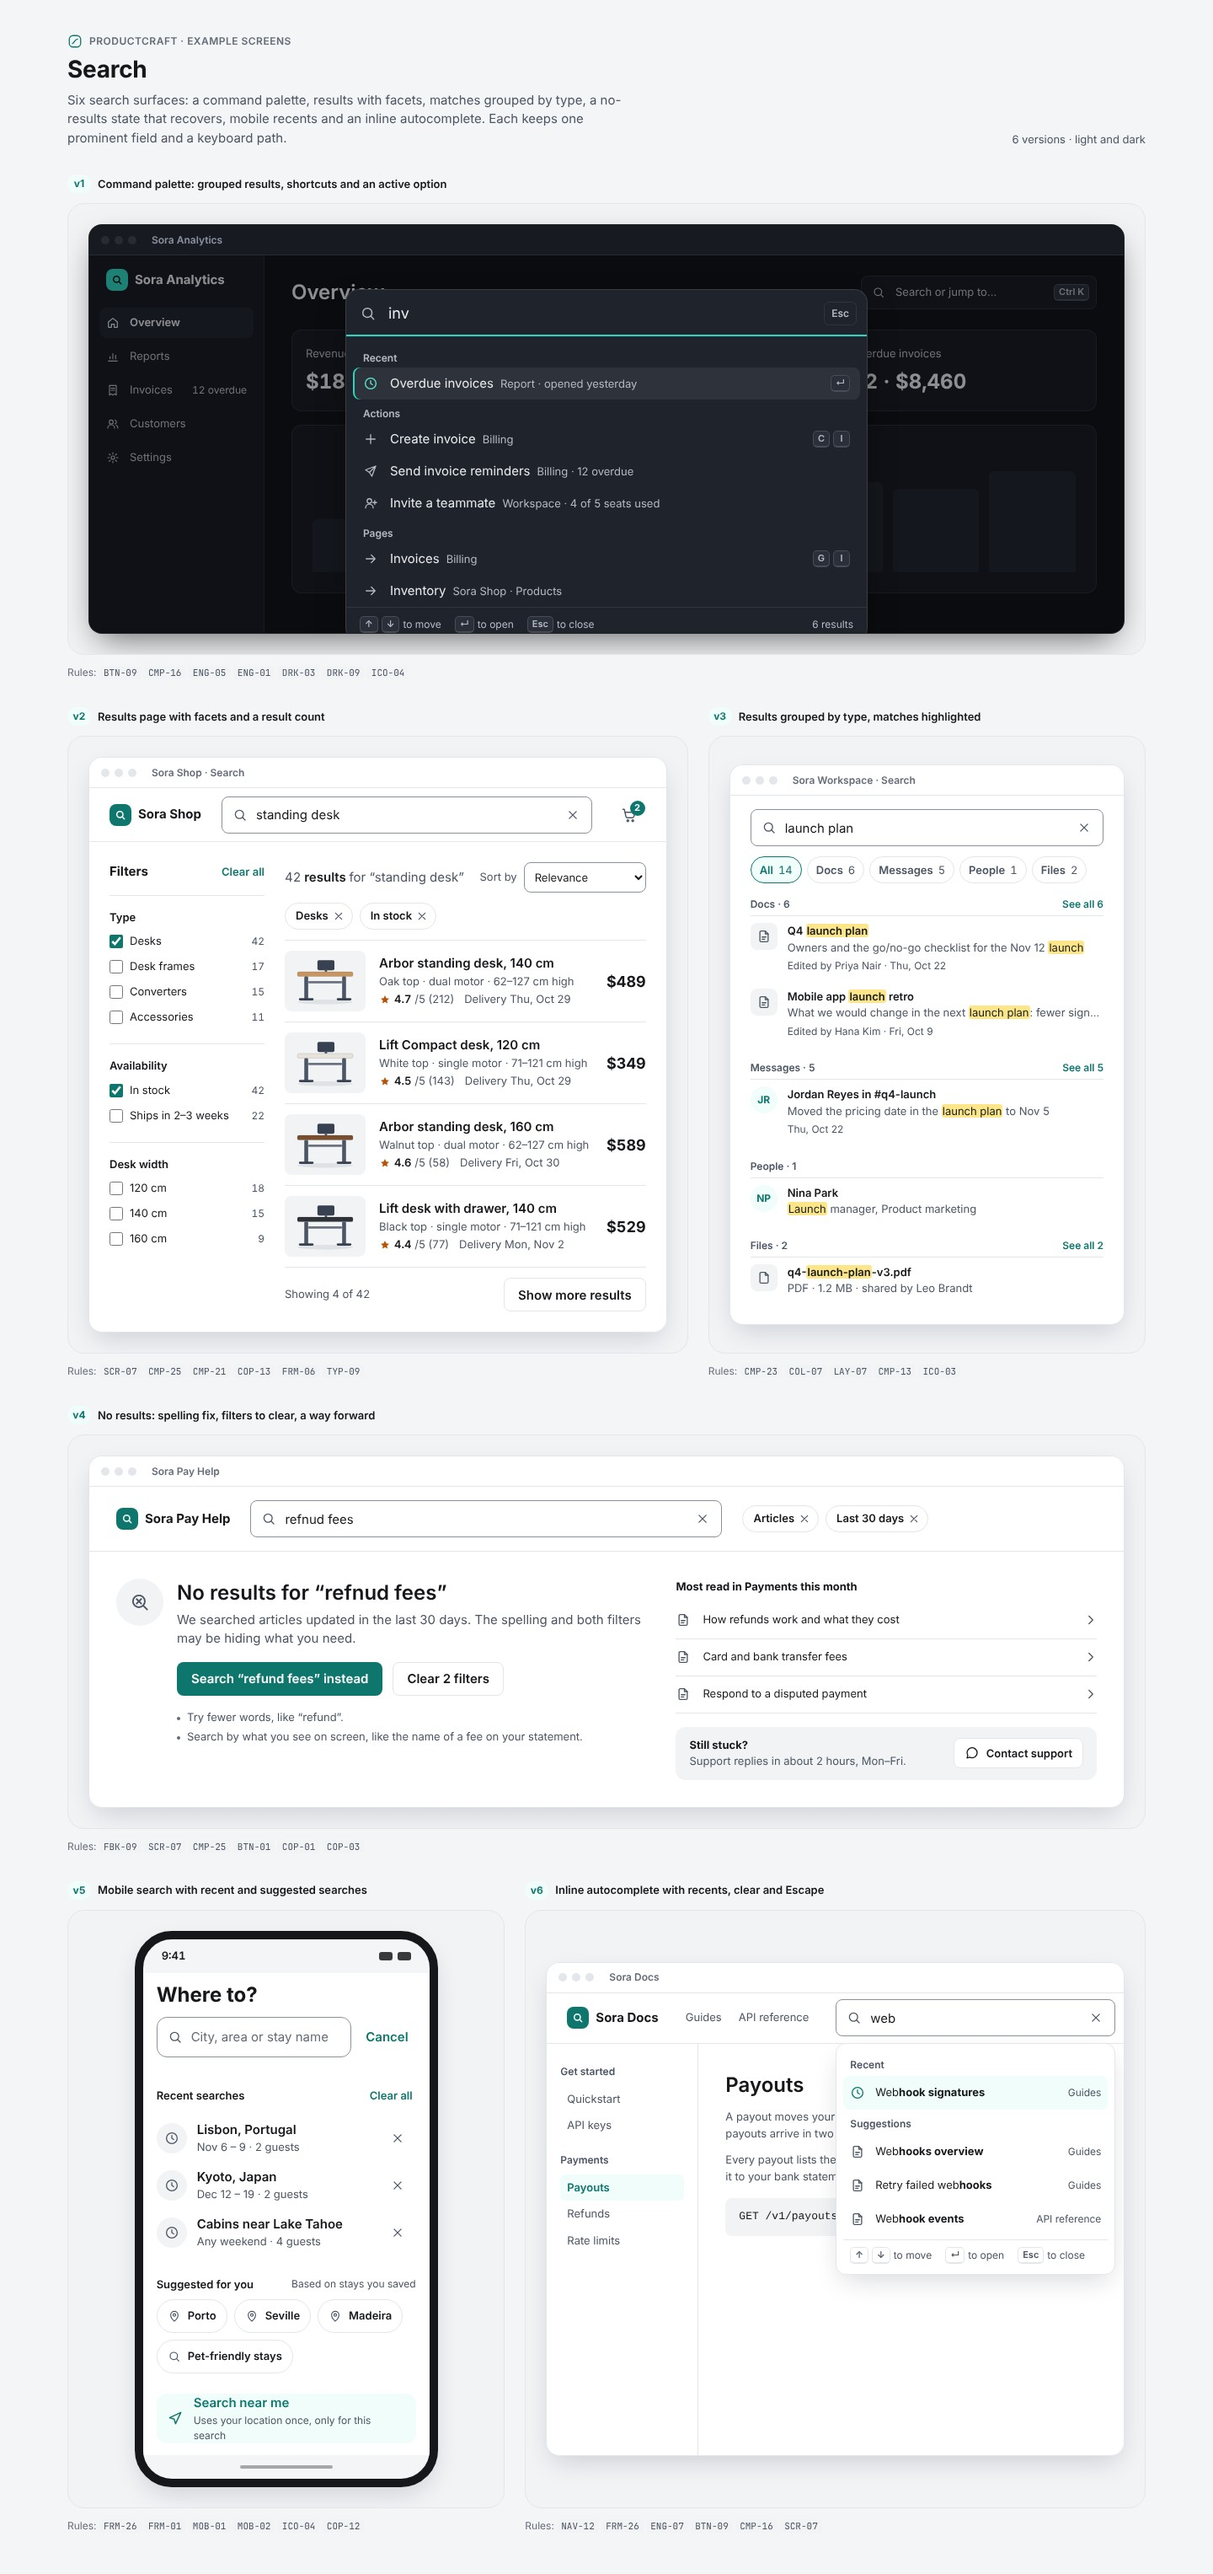
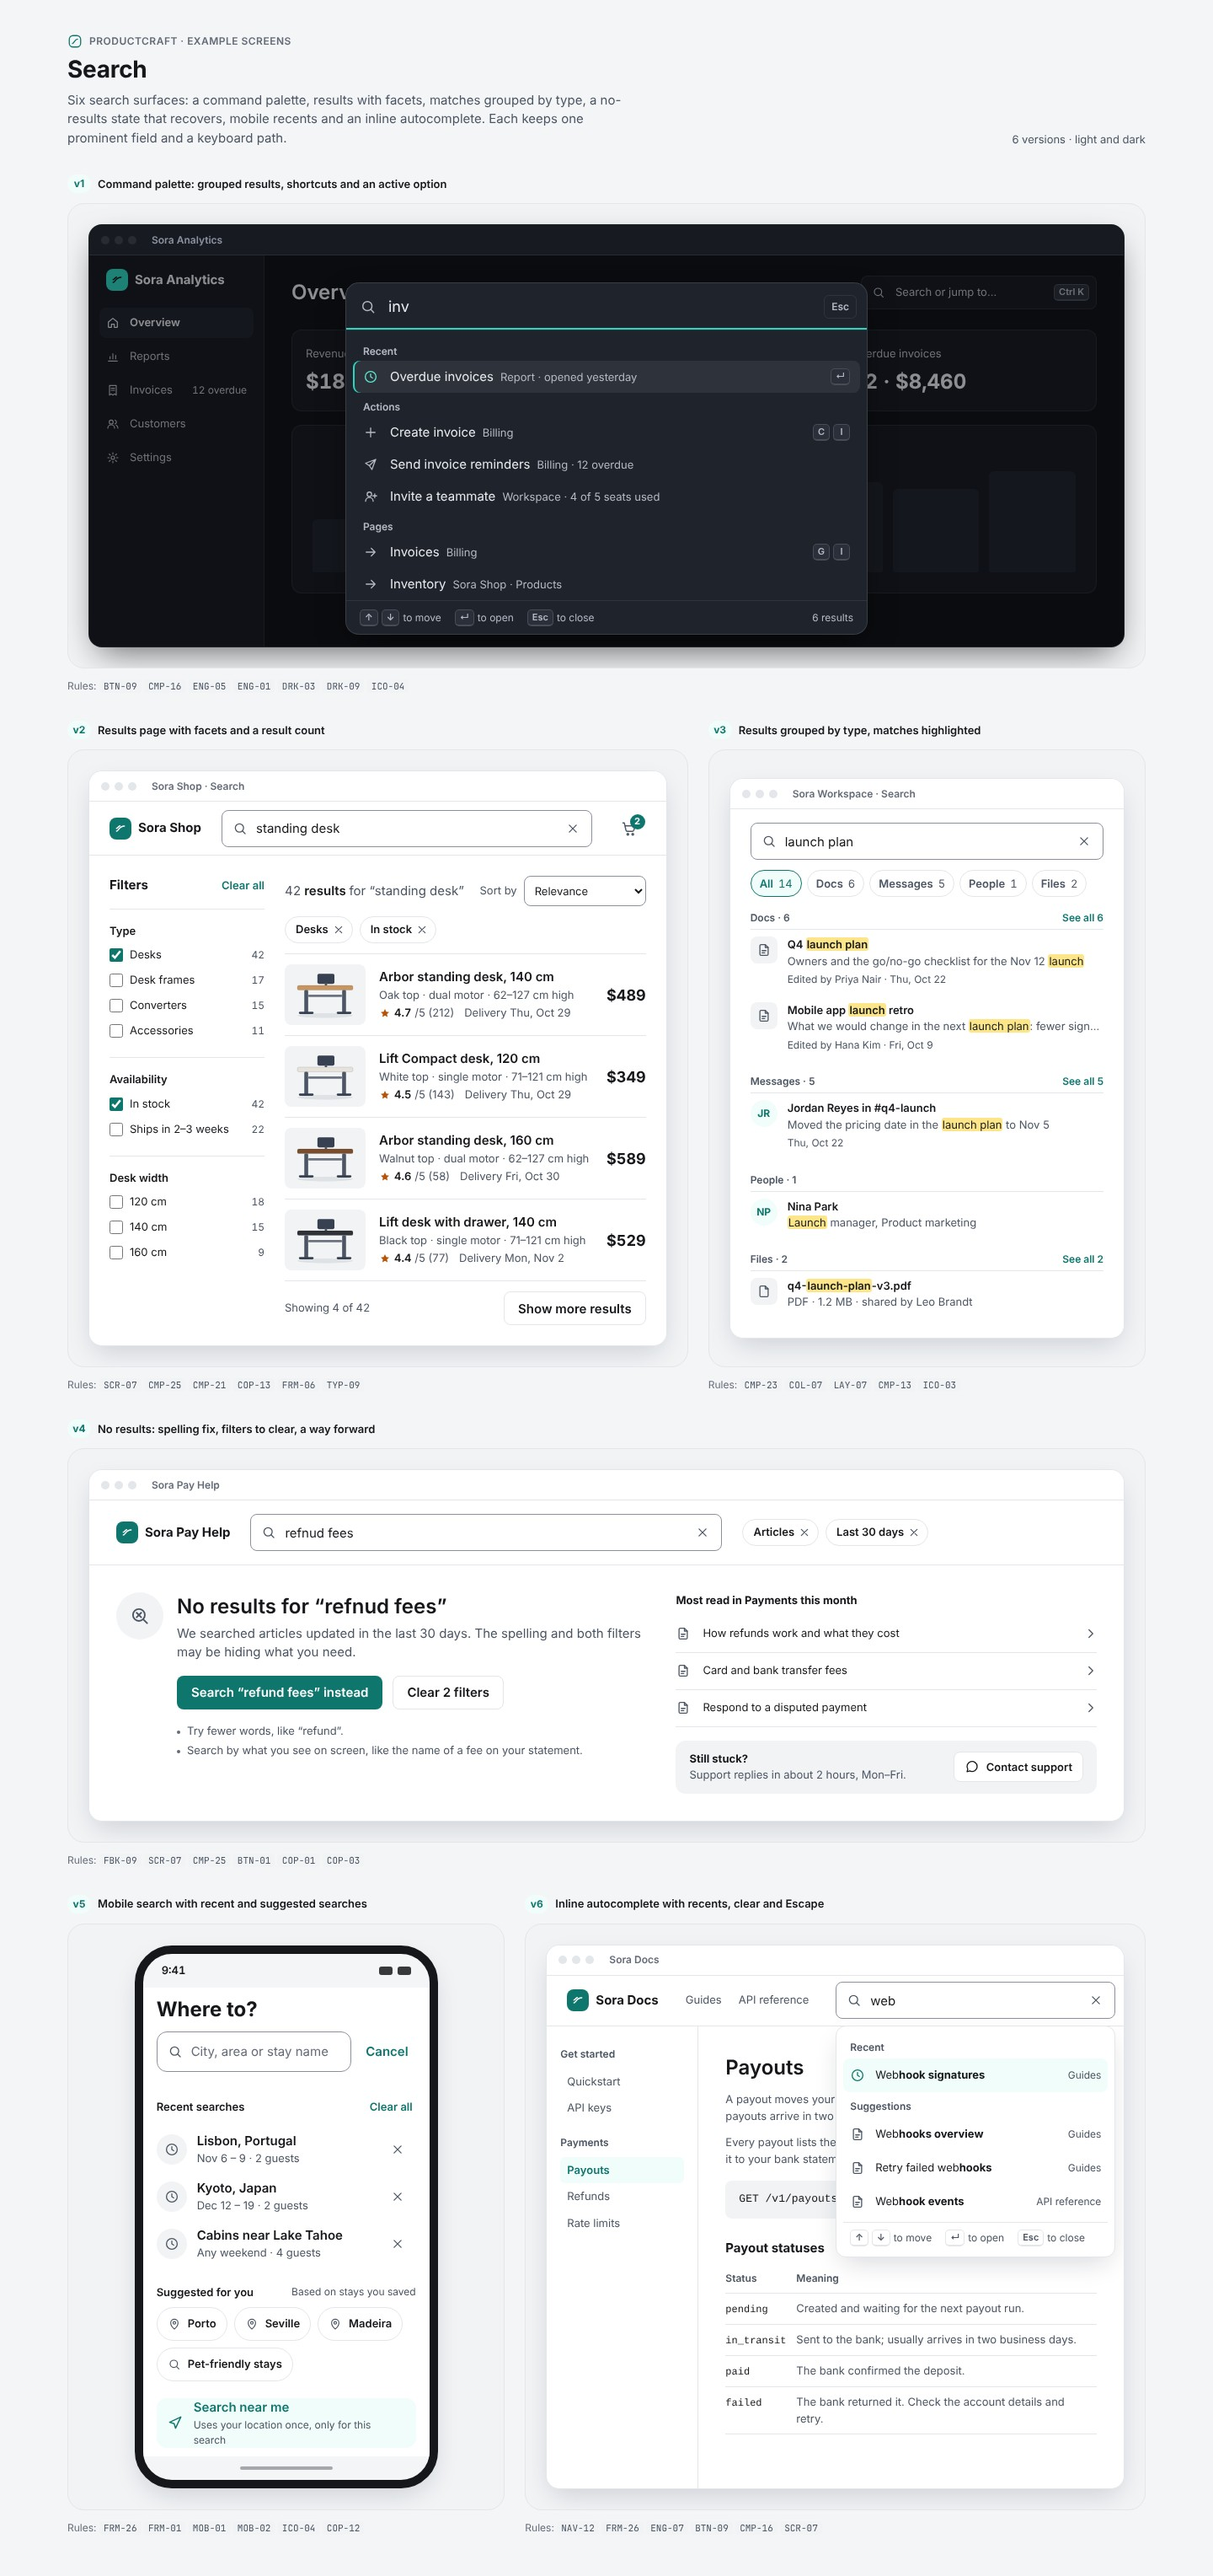
WIP: reference screens checkpoint
Claude-Session: https://claude.ai/code/session_018HZxTX6uw8LKZaqiiAUisJ

diff --git a/skills/productcraft/examples/search.html b/skills/productcraft/examples/search.html
@@ -64,7 +64,7 @@
     .field .icon-btn svg { width: 18px; height: 18px; }
 
     /* v1 command palette over a lightly dimmed, inert app (P69, ENG-05) */
-    .app-frame { position: relative; height: 448px; overflow: hidden; }
+    .app-frame { position: relative; height: 464px; overflow: hidden; }
     .app { display: grid; grid-template-columns: 208px minmax(0, 1fr); height: 100%; }
     .app-side { display: flex; flex-direction: column; gap: var(--space-1); padding: var(--space-4) var(--space-3); border-right: 1px solid var(--border); background: var(--surface); }
     .app-side .brand { margin: 0 var(--space-2) var(--space-4); }
@@ -83,7 +83,7 @@
     .app-chart { display: flex; align-items: flex-end; gap: var(--space-3); height: 200px; margin-top: var(--space-4); padding: var(--space-5); border: 1px solid var(--border); border-radius: var(--radius-md); background: var(--surface); }
     .app-chart i { flex: 1; border-radius: 6px 6px 2px 2px; background: var(--surface-2); }
     .scrim { position: absolute; inset: 0; background: rgba(4, 6, 8, 0.4); }
-    .cmdk { position: absolute; top: var(--space-7); left: 50%; width: min(620px, calc(100% - 48px)); transform: translateX(-50%); border: 1px solid rgba(255, 255, 255, 0.12); border-radius: var(--radius-lg); background: var(--surface-2); box-shadow: var(--shadow-lg); overflow: hidden; }
+    .cmdk { position: absolute; top: var(--space-6); left: 50%; width: min(620px, calc(100% - 48px)); transform: translateX(-50%); border: 1px solid rgba(255, 255, 255, 0.12); border-radius: var(--radius-lg); background: var(--surface-2); box-shadow: var(--shadow-lg); overflow: hidden; }
     .cmdk[hidden] { display: none; }
     .cmdk-field { display: flex; align-items: center; gap: var(--space-3); height: 56px; padding: 0 var(--space-3) 0 var(--space-4); border-bottom: 1px solid var(--border); }
     .cmdk-field:focus-within { box-shadow: inset 0 -2px 0 var(--accent); }
@@ -189,8 +189,8 @@
     .support .btn { min-height: 36px; padding: 0 var(--space-3); font-size: var(--text-sm); }
 
     /* v5 mobile search: recents with remove, honest suggestions, 44px targets (FRM-26, MOB-01) */
-    .phone { height: 660px; margin: 0 auto; color: var(--text); }
-    .m-body { display: flex; flex-direction: column; gap: var(--space-5); padding: var(--space-2) var(--space-4) 0; background: var(--surface); flex: 1; }
+    .phone { height: 644px; margin: 0 auto; color: var(--text); }
+    .m-body { display: flex; flex-direction: column; gap: 20px; padding: var(--space-2) var(--space-4) 0; background: var(--surface); flex: 1; }
     .m-title { display: block; font-size: var(--text-xl); font-weight: 700; }
     .m-search { display: flex; align-items: center; gap: var(--space-2); margin-top: var(--space-2); }
     .m-search .field { flex: 1; min-width: 0; min-height: 48px; border-radius: var(--radius-md); }
@@ -238,7 +238,7 @@
     .ac-empty { padding: var(--space-3) var(--space-2); font-size: var(--text-sm); color: var(--text-2); }
     .ac-foot { display: flex; gap: var(--space-4); margin-top: var(--space-1); padding: var(--space-2) var(--space-2) var(--space-1); border-top: 1px solid var(--border); font-size: var(--text-xs); color: var(--text-2); }
     .ac-foot span { display: inline-flex; align-items: center; gap: var(--space-1); }
-    .docs { display: grid; grid-template-columns: 180px minmax(0, 1fr); height: 488px; background: var(--surface); }
+    .docs { display: grid; grid-template-columns: 180px minmax(0, 1fr); height: 548px; background: var(--surface); }
     .docs-nav { padding: var(--space-5) var(--space-4); border-right: 1px solid var(--border); }
     .docs-nav h5 { margin: 0 0 var(--space-2); font-size: var(--text-xs); font-weight: 600; color: var(--text-2); }
     .docs-nav a { display: block; padding: 6px var(--space-2); border-radius: 6px; font-size: var(--text-sm); color: var(--text-2); }
@@ -249,6 +249,12 @@
     .docs-article p { max-width: 560px; margin-top: var(--space-3); font-size: var(--text-sm); color: var(--text-2); }
     .docs-article pre { margin: var(--space-4) 0 0; padding: var(--space-3) var(--space-4); border-radius: var(--radius-sm); background: var(--surface-2); font: 13px/1.6 ui-monospace, SFMono-Regular, Menlo, monospace; color: var(--text); overflow: hidden; }
     .status-line { margin-top: var(--space-2); font-size: var(--text-xs); color: var(--text-2); }
+    .docs-article h4 { margin-top: var(--space-5); font-size: var(--text-md); }
+    .states { width: 100%; max-width: 560px; margin-top: var(--space-2); border-collapse: collapse; font-size: var(--text-sm); }
+    .states th, .states td { padding: var(--space-2) var(--space-3) var(--space-2) 0; border-bottom: 1px solid var(--border); text-align: left; vertical-align: top; }
+    .states th { font-size: var(--text-xs); font-weight: 600; color: var(--text-2); }
+    .states td { color: var(--text-2); }
+    .states code { font: 12px/1.5 ui-monospace, SFMono-Regular, Menlo, monospace; color: var(--text); }
 
     @media (max-width: 760px) {
       .sheet { padding: var(--space-5) var(--space-4); }
@@ -261,7 +267,7 @@
 </head>
 <body>
   <svg width="0" height="0" style="position:absolute" aria-hidden="true">
-    <symbol id="i-mark" viewBox="0 0 24 24" fill="none" stroke="currentColor" stroke-width="2.25" stroke-linecap="round" stroke-linejoin="round"><circle cx="11" cy="11" r="5.5"/><path d="M15.5 15.5L19 19"/></symbol>
+    <symbol id="i-mark" viewBox="0 0 24 24" fill="none" stroke="currentColor" stroke-width="2.25" stroke-linecap="round" stroke-linejoin="round"><path d="M5 16.5c3.5 0 4.5-9 14-9"/><path d="M5 11.5c2 0 3-3.5 6-4.5"/></symbol>
     <symbol id="i-search" viewBox="0 0 24 24" fill="none" stroke="currentColor" stroke-width="1.75" stroke-linecap="round" stroke-linejoin="round"><circle cx="11" cy="11" r="6.5"/><path d="M16 16l4 4"/></symbol>
     <symbol id="i-x" viewBox="0 0 24 24" fill="none" stroke="currentColor" stroke-width="1.75" stroke-linecap="round" stroke-linejoin="round"><path d="M6.5 6.5l11 11M17.5 6.5l-11 11"/></symbol>
     <symbol id="i-clock" viewBox="0 0 24 24" fill="none" stroke="currentColor" stroke-width="1.75" stroke-linecap="round" stroke-linejoin="round"><circle cx="12" cy="12" r="8.5"/><path d="M12 7.5V12l3 2"/></symbol>
@@ -668,6 +674,16 @@
                 <p>A payout moves your available balance to your bank account. Most payouts arrive in two business days; the first one can take up to seven.</p>
                 <p>Every payout lists the payments and fees it includes, so you can match it to your bank statement line by line.</p>
                 <pre><code>GET /v1/payouts?status=in_transit</code></pre>
+                <h4>Payout statuses</h4>
+                <table class="states">
+                  <thead><tr><th scope="col">Status</th><th scope="col">Meaning</th></tr></thead>
+                  <tbody>
+                    <tr><td><code>pending</code></td><td>Created and waiting for the next payout run.</td></tr>
+                    <tr><td><code>in_transit</code></td><td>Sent to the bank; usually arrives in two business days.</td></tr>
+                    <tr><td><code>paid</code></td><td>The bank confirmed the deposit.</td></tr>
+                    <tr><td><code>failed</code></td><td>The bank returned it. Check the account details and retry.</td></tr>
+                  </tbody>
+                </table>
                 <p class="status-line" id="ac-status" role="status" aria-live="polite"></p>
               </article>
             </div>

diff --git a/skills/productcraft/examples/dashboard-v16.html b/skills/productcraft/examples/dashboard-v16.html
@@ -449,6 +449,7 @@
   const T0 = 120, T1 = 860;
   let metric = "hr", cursor = null;
   const statusOf = (m, v) => (v > m.ok[1] ? "High" : v < m.ok[0] ? "Low" : "In range");
+  const withUnit = (m, v) => `${m.fmt(v)}${m.unit === "%" ? "%" : ` ${m.unit}`}`;
   function node(tag, attrs, parent, text) {
     const n = document.createElementNS(NS, tag);
     Object.entries(attrs).forEach(([k, v]) => n.setAttribute(k, v));
@@ -471,7 +472,7 @@
       node("line", { class: "grid", x1: pad.l, x2: W - pad.r, y1: y(t), y2: y(t) }, svg);
       node("text", { x: pad.l - 8, y: y(t) + 4, "text-anchor": "end" }, svg, m.fmt(t));
     });
-    node("text", { class: "band-label", x: pad.l + 8, y: y(m.ok[1]) + 15 }, svg, `Normal ${m.fmt(m.ok[0])}–${m.fmt(m.ok[1])} ${m.unit}`);
+    node("text", { class: "band-label", x: pad.l + 8, y: y(m.ok[1]) + 15 }, svg, `Normal ${m.fmt(m.ok[0])}–${withUnit(m, m.ok[1])}`);
     node("line", { class: "axis", x1: pad.l, x2: W - pad.r, y1: H - pad.b, y2: H - pad.b }, svg);
     (W < 560 ? [120, 360, 600, 840] : [120, 240, 360, 480, 600, 720, 840]).forEach((t) => node("text", { x: x(t), y: H - 6, "text-anchor": "middle" }, svg, `${String(t / 60).padStart(2, "0")}:00`));
     node("polyline", { class: "line", points: times.map((t, i) => `${x(t)},${y(m.values[i])}`).join(" ") }, svg);
@@ -481,13 +482,13 @@
       node("circle", { class: `pt${out ? " out" : ""}`, cx: x(t), cy: y(m.values[i]), r: i === cursor ? 6 : out ? 5 : 4 }, svg);
     });
     const last = m.values.length - 1, st = statusOf(m, m.values[last]);
-    node("text", { class: "last-label", x: x(times[last]) + 12, y: y(m.values[last]) - 2 }, svg, `${m.fmt(m.values[last])} ${m.unit}`);
+    node("text", { class: "last-label", x: x(times[last]) + 12, y: y(m.values[last]) - 2 }, svg, withUnit(m, m.values[last]));
     node("text", { x: x(times[last]) + 12, y: y(m.values[last]) + 13 }, svg, st === "In range" ? "In range" : `${st} · 14:05`);
     document.getElementById("trend-summary").textContent = m.summary;
     document.getElementById("chart-caption").textContent = `${m.name}, last 12 hours (${m.unit}); normal ${m.fmt(m.ok[0])} to ${m.fmt(m.ok[1])}`;
     document.querySelector("#chart-table tbody").replaceChildren(...times.map((t, i) => {
       const tr = document.createElement("tr");
-      tr.innerHTML = `<th scope="row">${hhmm(t)}</th><td>${m.fmt(m.values[i])} ${m.unit}</td><td>${statusOf(m, m.values[i])}</td>`;
+      tr.innerHTML = `<th scope="row">${hhmm(t)}</th><td>${withUnit(m, m.values[i])}</td><td>${statusOf(m, m.values[i])}</td>`;
       return tr;
     }));
   }
@@ -496,11 +497,11 @@
     render();
     const { m, W, x } = geo();
     const st = statusOf(m, m.values[i]);
-    tip.innerHTML = `<span class="num">${hhmm(times[i])}</span><b class="num">${m.fmt(m.values[i])} ${m.unit} · ${st}</b><span class="num">Normal ${m.fmt(m.ok[0])}–${m.fmt(m.ok[1])}</span>`;
+    tip.innerHTML = `<span class="num">${hhmm(times[i])}</span><b class="num">${withUnit(m, m.values[i])} · ${st}</b><span class="num">Normal ${m.fmt(m.ok[0])}–${m.fmt(m.ok[1])}</span>`;
     tip.hidden = false;
     const px = x(times[i]);
     tip.style.left = `${px + 170 > W ? px - 170 : px + 12}px`;
-    document.getElementById("chart-live").textContent = `${hhmm(times[i])}, ${m.name} ${m.fmt(m.values[i])} ${m.unit}, ${st}`;
+    document.getElementById("chart-live").textContent = `${hhmm(times[i])}, ${m.name} ${withUnit(m, m.values[i])}, ${st}`;
   }
   function hide() { cursor = null; tip.hidden = true; render(); }
   chart.addEventListener("pointermove", (e) => {

diff --git a/skills/productcraft/examples/dashboard-v14.html b/skills/productcraft/examples/dashboard-v14.html
@@ -117,6 +117,7 @@
     .chart-card { grid-column: span 8; }
     .legend { display: flex; flex-wrap: wrap; gap: var(--space-1) var(--space-4); margin: 0 0 var(--space-2); padding: 0; list-style: none; font-size: var(--text-xs); color: var(--text-2); }
     .legend li { display: inline-flex; align-items: center; gap: var(--space-2); }
+    .legend li[hidden] { display: none; }
     .legend svg { width: 20px; height: 10px; }
     .chart { position: relative; height: 352px; outline-offset: 4px; border-radius: var(--radius-sm); }
     .chart svg { display: block; width: 100%; height: 100%; overflow: visible; }
@@ -301,11 +302,11 @@
       </div>
     </div>
     <ul class="legend" aria-label="Chart key">
-      <li><svg viewBox="0 0 20 10" aria-hidden="true"><path d="M1 5h18" stroke="#15171a" stroke-width="2"/></svg>Actual</li>
+      <li id="key-actual"><svg viewBox="0 0 20 10" aria-hidden="true"><path d="M1 5h18" stroke="#15171a" stroke-width="2"/></svg>Actual</li>
       <li><svg viewBox="0 0 20 10" aria-hidden="true"><path d="M1 5h18" stroke="#0b7285" stroke-width="2" stroke-dasharray="5 3"/></svg>Forecast</li>
       <li><svg viewBox="0 0 20 10" aria-hidden="true"><rect x="1" y="1" width="18" height="8" rx="2" fill="rgba(11,114,133,.22)"/></svg>Likely range (P10 to P90)</li>
       <li><svg viewBox="0 0 20 10" aria-hidden="true"><path d="M1 5h18" stroke="#b91c1c" stroke-width="2"/></svg>Available capacity</li>
-      <li><svg viewBox="0 0 20 10" aria-hidden="true"><rect x="1" y="1" width="18" height="8" rx="2" fill="#fef2f2" stroke="#f3c4c4"/></svg>Peak risk window</li>
+      <li id="key-risk"><svg viewBox="0 0 20 10" aria-hidden="true"><rect x="1" y="1" width="18" height="8" rx="2" fill="#fef2f2" stroke="#f3c4c4"/></svg>Peak risk window</li>
     </ul>
     <div class="chart" id="chart" tabindex="0" role="group" aria-roledescription="chart" aria-label="Load forecast chart. Use left and right arrow keys to read each point." aria-describedby="chart-summary">
       <svg id="chart-svg" aria-hidden="true"></svg>
@@ -461,7 +462,7 @@
   };
   const tomorrowF = today.forecast.map((f) => Math.round((f * 0.948) / 10) * 10);
   const tomorrow = {
-    labels: hours, domain: [7000, 13500], ticks: today.ticks,
+    labels: hours, domain: [6500, 13500], ticks: today.ticks,
     forecast: tomorrowF,
     lo: tomorrowF.map((f, h) => Math.round((f * (1 - (0.03 + 0.035 * Math.min(h, 18) / 18))) / 10) * 10),
     hi: tomorrowF.map((f, h) => Math.round((f * (1 + (0.03 + 0.035 * Math.min(h, 18) / 18))) / 10) * 10),
@@ -591,6 +592,8 @@
       return tr;
     }));
     document.getElementById("chart-summary").textContent = d.summary;
+    document.getElementById("key-actual").hidden = !d.actual.length;
+    document.getElementById("key-risk").hidden = !d.riskTo;
   }
   function showTip(i) {
     const { d, W, x } = geometry();
